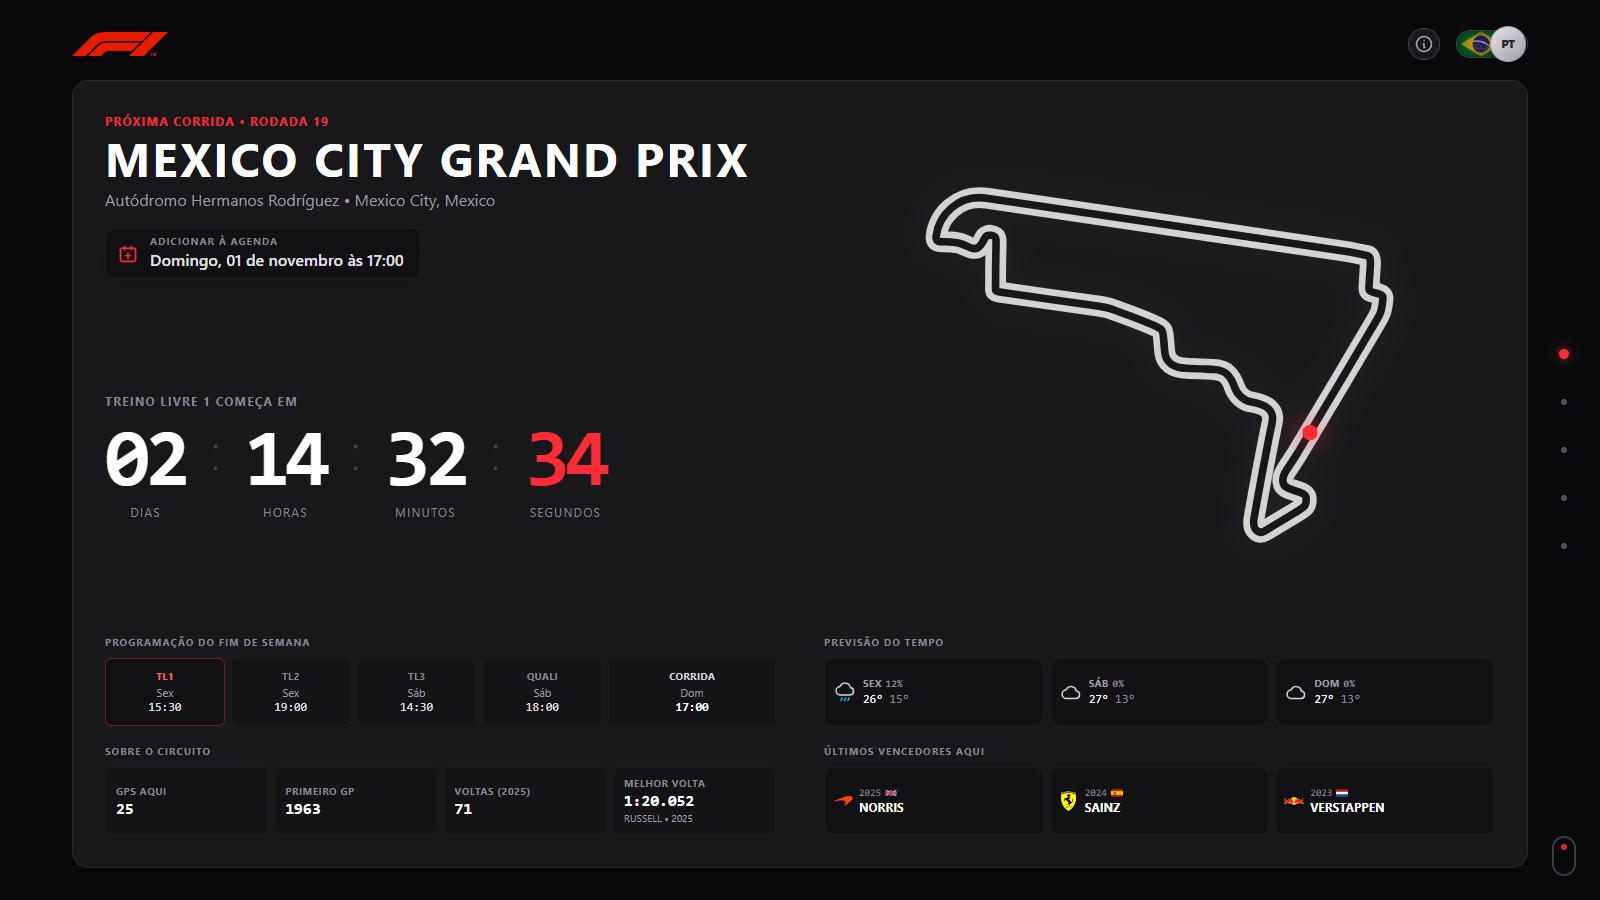
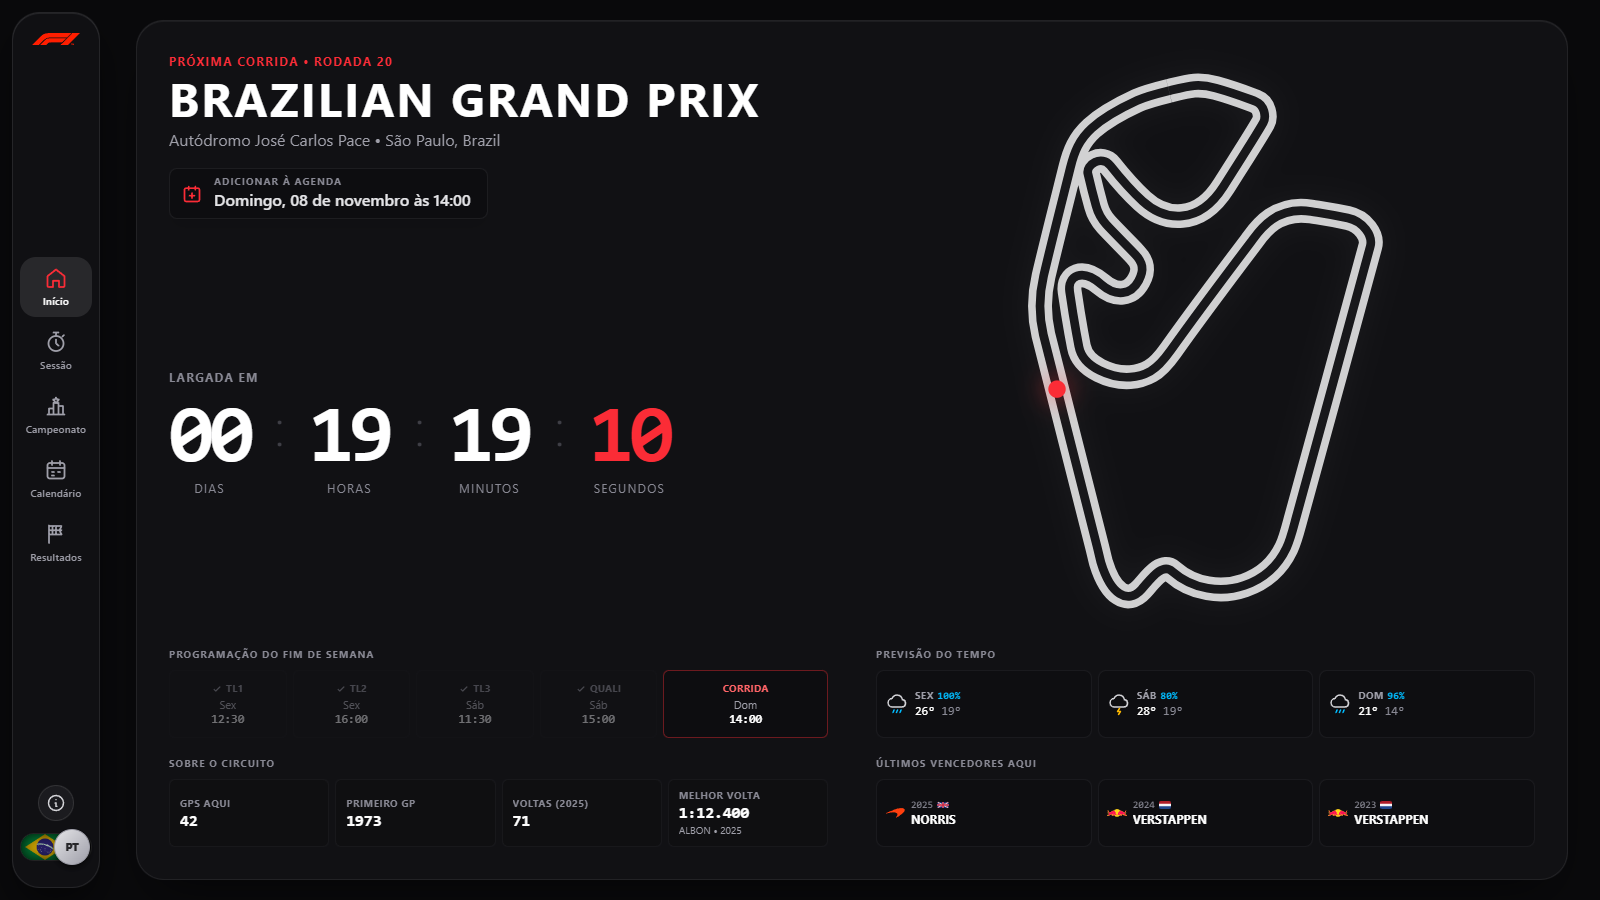
docs: imagens do README com o layout de app e a página Sessão
- Todas as capturas refeitas (1600x900 no computador, 390x844 no celular)
- Página Sessão ganha imagens e a explicação do aviso de bloqueio
- Ajusta textos do calendário e do campeonato ao layout atual

diff --git a/README.md b/README.md
@@ -46,10 +46,15 @@ O ponto de entrada do usuário. Traz informações críticas sobre o próximo ev
 ### 2. Sessão (dados do OpenF1)
 Cada treino, qualificação e corrida desde 2023, com escolha da etapa e da sessão (a escolha fica no endereço, para compartilhar).
 - **Os três primeiros** em cards com a foto do piloto na cor da equipe.
-- **Classificação no estilo da transmissão:** sigla de 3 letras com a barra da cor da equipe no celular e nome completo no computador; melhor volta (a mais rápida em roxo), diferença, voltas e pneu. Na qualificação, Q1/Q2/Q3; na corrida, tempo, diferença e abandonos.
+- **Classificação no estilo da transmissão:** sigla de 3 letras com a barra da cor da equipe no celular e nome completo no computador; melhor volta (a mais rápida em roxo), diferença, voltas e pneu. Na qualificação, Q1/Q2/Q3 com o melhor tempo de cada Q em roxo e a diferença para a pole só entre quem chegou ao mesmo Q (quem caiu antes mostra "Q1" ou "Q2"); na corrida, tempo, diferença e abandonos.
 - **Velocidade máxima** de cada piloto no ponto de medição, em barras na cor da equipe.
 - **Setores:** volta mais rápida × volta teórica (soma dos melhores setores) e a classificação de cada setor.
-- Durante uma sessão ao vivo a aba ganha um ponto vermelho piscando; os dados aparecem ~30 min depois do fim (limite do plano gratuito do OpenF1).
+- Durante uma sessão ao vivo a aba ganha um ponto vermelho piscando. O plano gratuito do OpenF1 fecha os dados durante as sessões e só libera ~30 min depois do fim: nesse meio-tempo o site mostra o que já tem guardado no banco; se ainda não tiver nada, aparece um aviso com a sessão em andamento, que tenta de novo sozinho a cada minuto e se preenche quando os dados chegam.
+
+<div align="center">
+   <img src="docs/sessao-openf1.png" alt="Página Sessão no computador" width="600">
+   <img src="docs/sessao-celular.png" alt="Página Sessão no celular" width="180">
+</div>
 
 ### 3. Destaques (Highlights)
 - **Pódio do último GP**, com pole, volta mais rápida e o piloto que mais ganhou posições.
@@ -64,7 +69,7 @@ Cada treino, qualificação e corrida desde 2023, com escolha da etapa e da sess
 ### 4. Classificação Mundial (Standings)
 Uma visão completa e dividida da tabela de pontos atualizada, renderizada com animações suaves de fade-in.
 - **Pilotos & Equipes:** Tabelas completas com cálculo de diferenças de pontos, logotipos oficiais e bandeiras.
-- Em telas largas a lista se divide em duas colunas (1º–11º | 12º–22º) e ocupa a tela inteira, com uma barra mostrando os pontos de cada um em relação ao líder.
+- Em telas largas a lista se divide em duas colunas e ocupa a tela inteira, com uma barra mostrando os pontos de cada um em relação ao líder.
 - Em telas altas, as **equipes** ficam numa coluna só, com os pilotos de cada uma e os pontos de cada piloto.
 - **Evolução dos pontos:** gráfico interativo rodada a rodada dos 6 primeiros (pilotos ou equipes).
 - **Modal da equipe:** números da equipe na história e o **duelo interno** entre os companheiros (qualificação, corrida e pontos).
@@ -79,7 +84,7 @@ Uma visão completa e dividida da tabela de pontos atualizada, renderizada com a
 </div>
 
 ### 5. Calendário
-- A temporada inteira em uma grade de cards (no celular, uma lista que já abre na próxima corrida), com o desenho de cada pista, datas, vencedor de cada GP já disputado e selo de fim de semana Sprint.
+- A temporada inteira em uma grade de cards (no celular, uma lista), com a etapa do fim de semana destacada, o desenho de cada pista, datas, vencedor de cada GP já disputado e selo de fim de semana Sprint.
 - Clicar numa etapa abre a programação completa, com os horários no fuso de quem está vendo.
 
 <div align="center">
